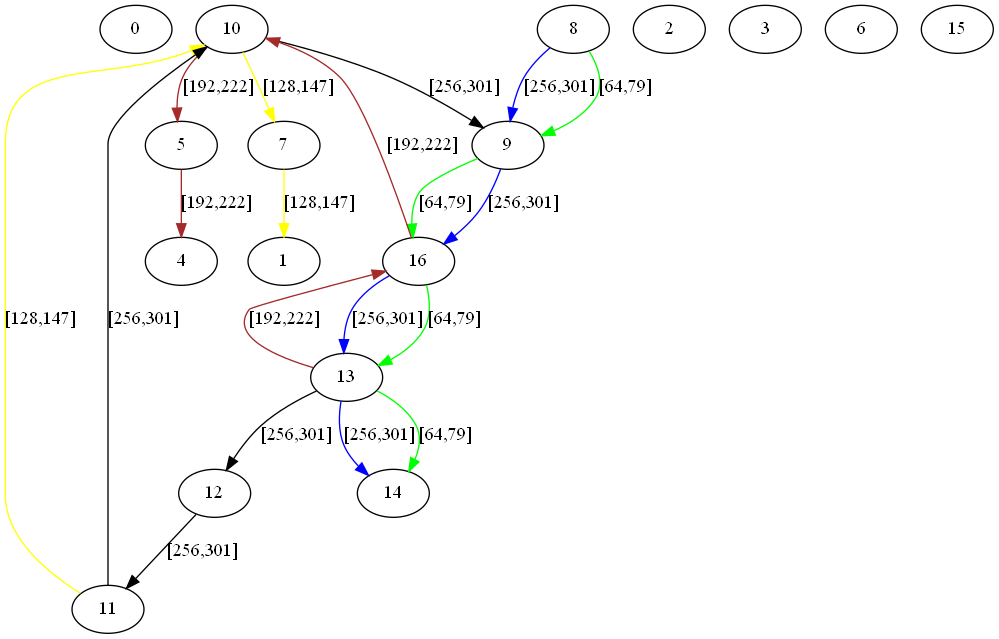
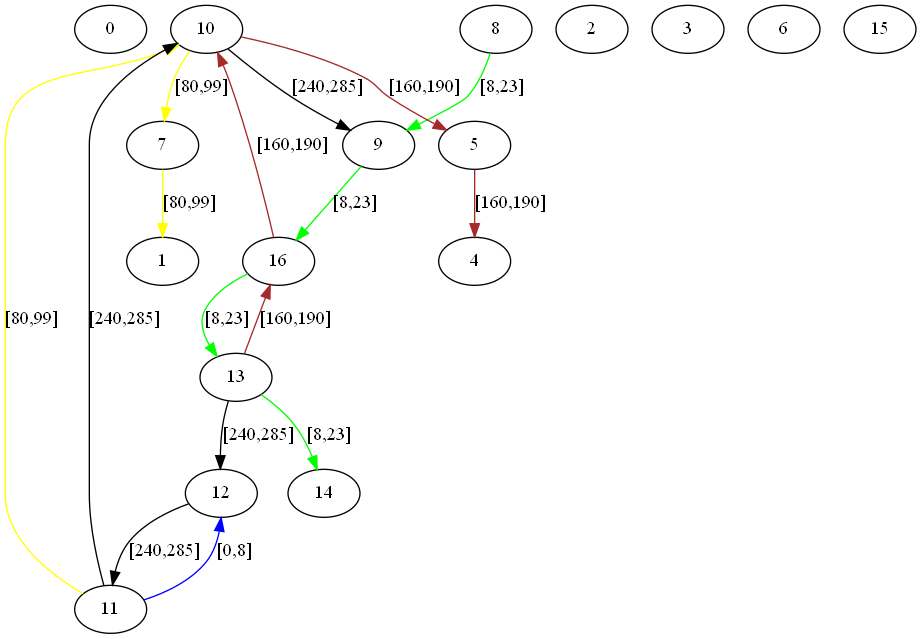
name fix

diff --git a/src/RSABuilder.py b/src/RSABuilder.py
@@ -507,10 +507,10 @@ class AllRightBuilder:
 if __name__ == "__main__":
     G = topology.get_nx_graph("topologies/japanese_topologies/dt.gml")
     #G = topology.get_nx_graph("topologies/topzoo/Ai3.gml")
-    demands = topology.get_gravity_demands2_nodes_have_constant_size(G, 12 ,seed=10)
+    demands = topology.get_gravity_demands2_nodes_have_constant_size(G, 5 ,seed=10)
     demands = demand_ordering.demand_order_sizes(demands)
     print(demands)
-    p = AllRightBuilder(G, demands, 1, slots=320).modulation({0:1}).limited().path_type(AllRightBuilder.PathType.DISJOINT).sub_spectrum(5).construct()
+    p = AllRightBuilder(G, demands, 1, slots=320).modulation({0:1}).limited().path_type(AllRightBuilder.PathType.DISJOINT).sub_spectrum(4).construct()
     print(p.get_build_time())
     print(p.solved())
 

diff --git a/src/topology.py b/src/topology.py
@@ -391,7 +391,7 @@ def get_overlapping_simple_paths_with_index(paths):
 
     return overlapping_paths
 
-def get_overlap_graph(deands: list[Demand], paths):
+def get_overlap_graph(demands: list[Demand], paths):
     overlapping_paths = get_overlapping_simple_paths(paths)
 
     overlap_graph = nx.empty_graph()
